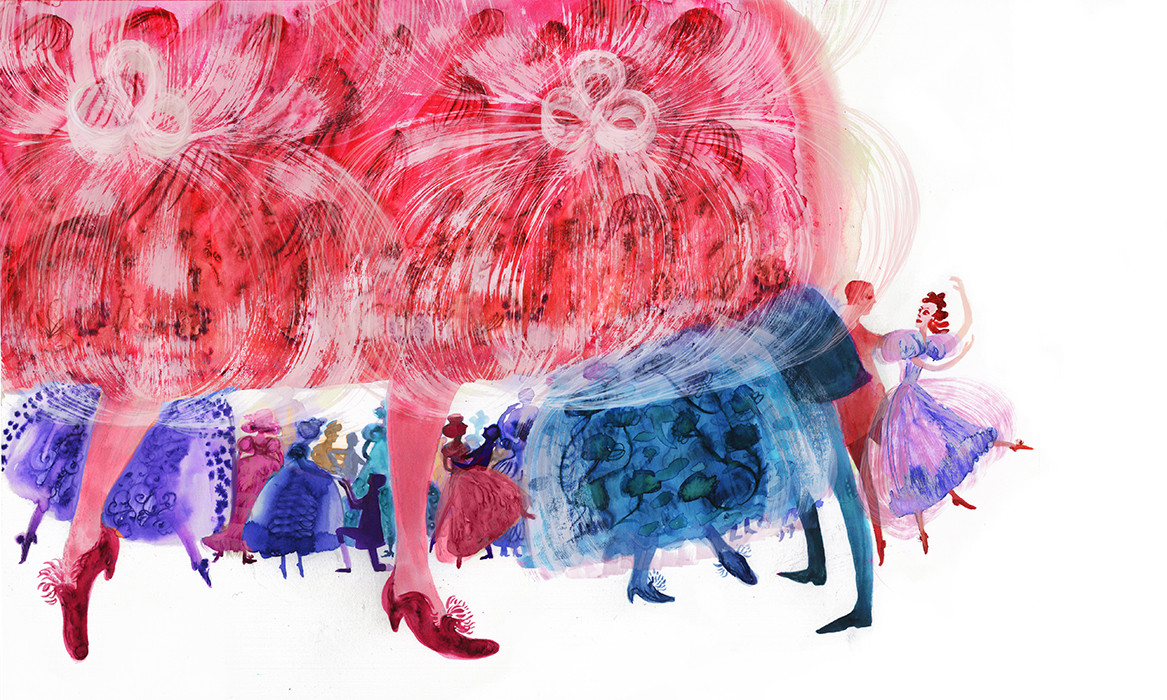
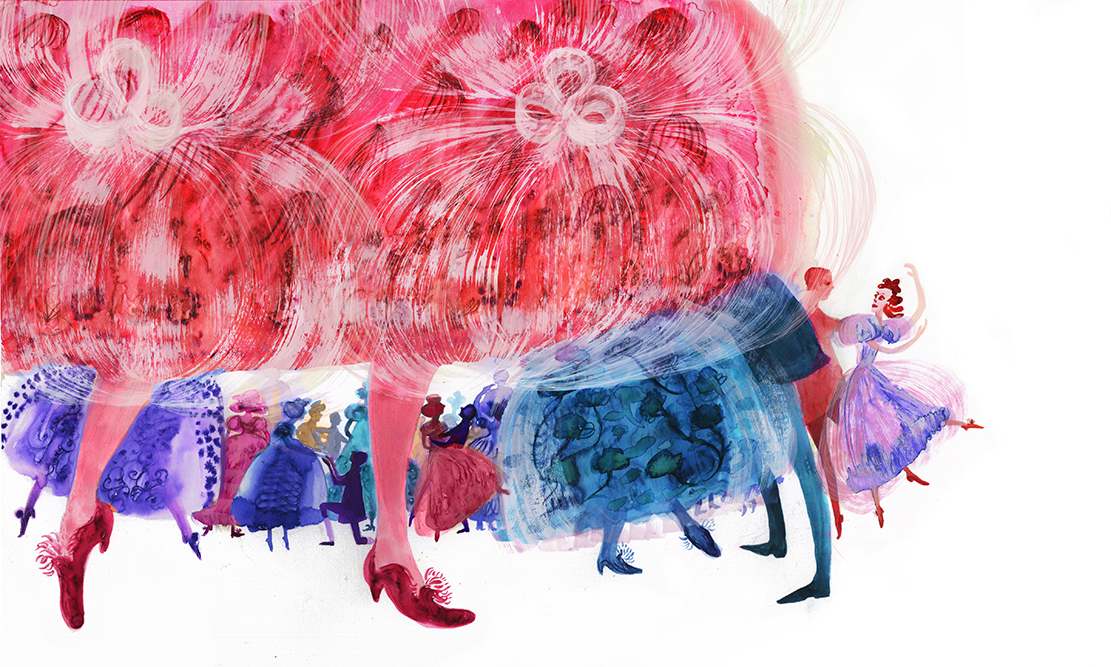
shoes page

diff --git a/app/index.html b/app/index.html
@@ -64,9 +64,9 @@
       <a href="page15.html#anchor"><img class="tn" src="images/tn/tn_tv.gif"></a>
       <a href="page22.html#anchor"><img class="tn" src="images/tn/tn_ed2.jpg"></a>
       <a href="page8.html#anchor"><img class="tn" src="images/tn/tn_riese.jpg"></a>
-     
+      <a href="page18.html#anchor"><img class="tn" src="images/tn/tn_diamond.jpg"></a>
       <a href="page13.html#anchor"><img class="tn" src="images/tn/tn_city.jpg"></a>
-     
+      <a href="page21.html#anchor"><img class="tn" src="images/tn/tn_ed1.jpg"></a>
       <a href="page12.html#anchor"><img class="tn" src="images/tn/tn_rnj.jpg"></a>
       <a href="page19.html#anchor"><img class="tn" src="images/tn/tn_sketch.jpg"></a>
       <a href="page6.html#anchor"><img class="tn" src="images/tn/tn_ash.jpg"></a>

diff --git a/app/page18.html b/app/page18.html
@@ -55,17 +55,19 @@
         </div>
 
         <div data-o-grid-colspan="S12 M2 Mpull10">
-          Some spreads from my version of the fairy tale "The Shoes That Were Danced to Pieces".
+          Some spreads from my version of the fairy tale "The Shoes That Were Danced to Pieces". <p></p>
         </div>
 
         <div class="o-grid-row">
         <div data-o-grid-colspan="S12 M10 Mpush2">
           <img class="img" src="images/diamond.jpg" id="anchor">
+          <img class="img" src="images/shoes1.jpg" id="anchor">
         </div>
 
           <div class="o-grid-row">
         <div data-o-grid-colspan="S12 M10 Mpush2">
           <img class="img" src="images/ball.jpg" id="anchor">
+          <img class="img" src="images/shoes2.jpg" id="anchor">
         </div>
       </div>
 
